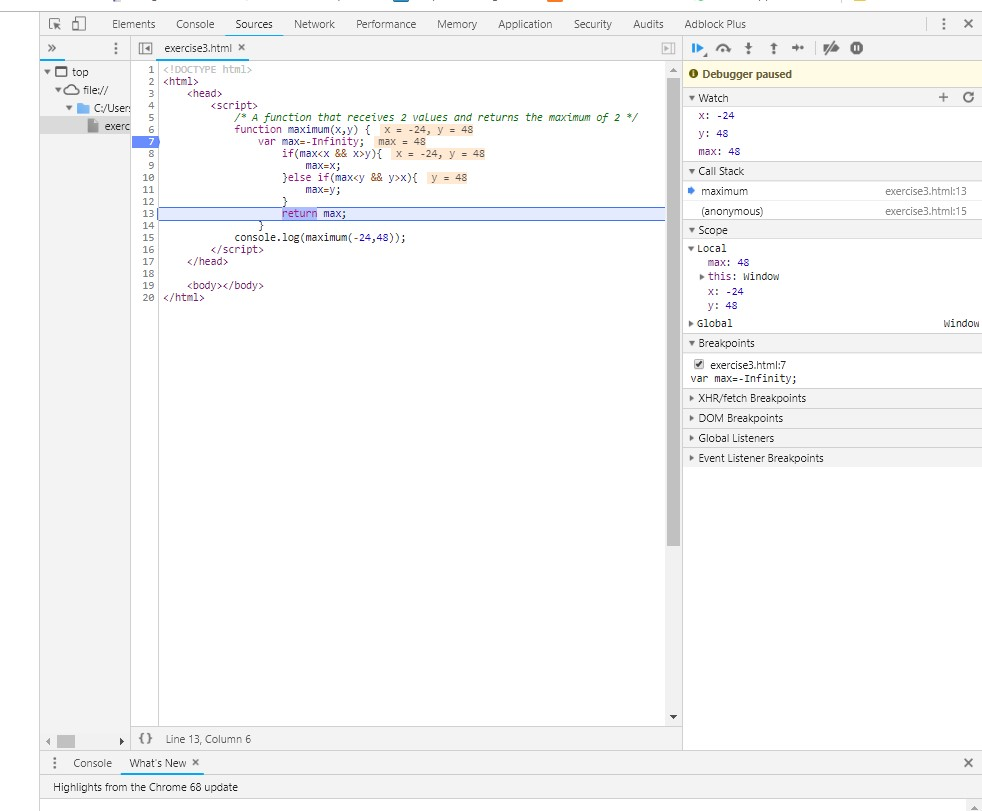
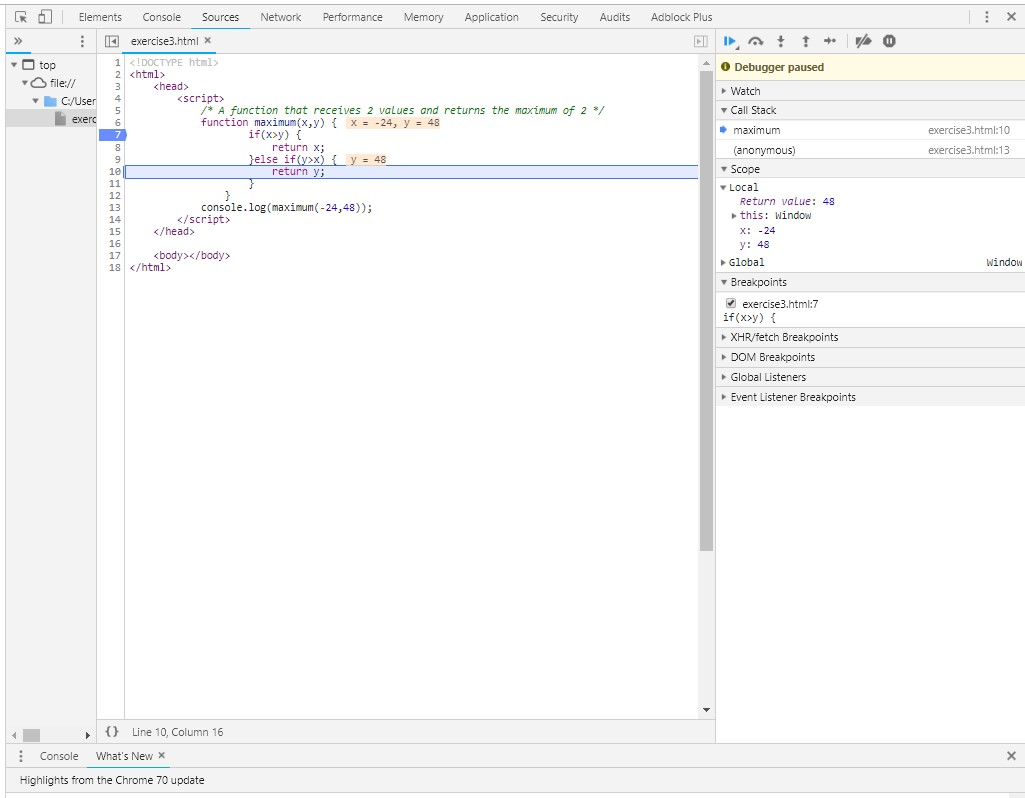
Add files via upload

diff --git a/exercise_3/exercise3.html b/exercise_3/exercise3.html
@@ -4,13 +4,11 @@
 		<script>
 			/* A function that receives 2 values and returns the maximum of 2 */
 			function maximum(x,y) {
-				var max=-Infinity;
-					if(max<x && x>y) {
-						max=x;
-					}else if(max<y && y>x) {
-						max=y;
+					if(x>y) {
+						return x;
+					}else if(y>x) {
+						return y;
 					}
-					return max;
 				}
 			console.log(maximum(-24,48));
 		</script>
